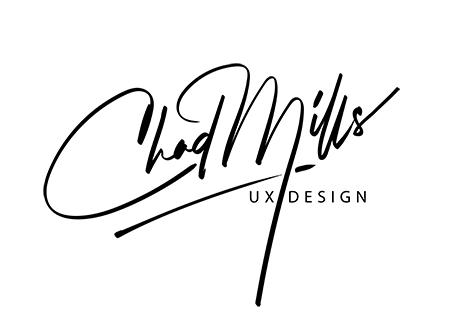
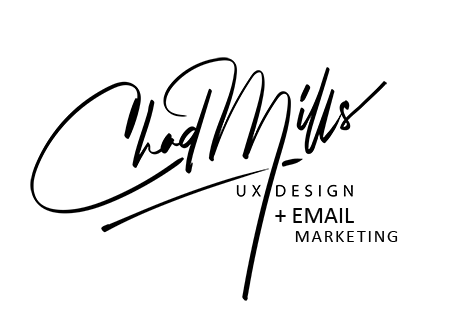
Updated for Email Marketing

Changed region(s): [[0.0622, 0.1709, 0.9022, 0.9684]]

diff --git a/v2/html/index.html b/v2/html/index.html
@@ -81,9 +81,9 @@
 
 							<!-- Main Title -->
 							<div class="resumo_fn_main_title">
-								<h3 class="subtitle">Introduction - CDM.UX</h3>
-								<h3 class="title">UX Leader & Strategist</h3>
-								<p class="desc">Throughout my career, I've perfected the art of merging technology with intuitive design. This ensures that products don't just function flawlessly but also deeply resonate with users. As a visionary in the field, my strategies are always anchored in practical and impactful results.</p>
+								<h3 class="subtitle">Introduction - CDM.UX + E</h3>
+								<h3 class="title">UX & Email Marketing Maverick</h3>
+								<p class="desc">My career is a blend of tech innovation, intuitive design, and email marketing mastery. Products under my lead don't just function—they captivate. As a strategist, I turn vision into practical, resonant user experiences, making every interaction impactful.</p>
 								<img src="img/signature2.png" alt="">
 							</div>
 							<!-- /Main Title -->
